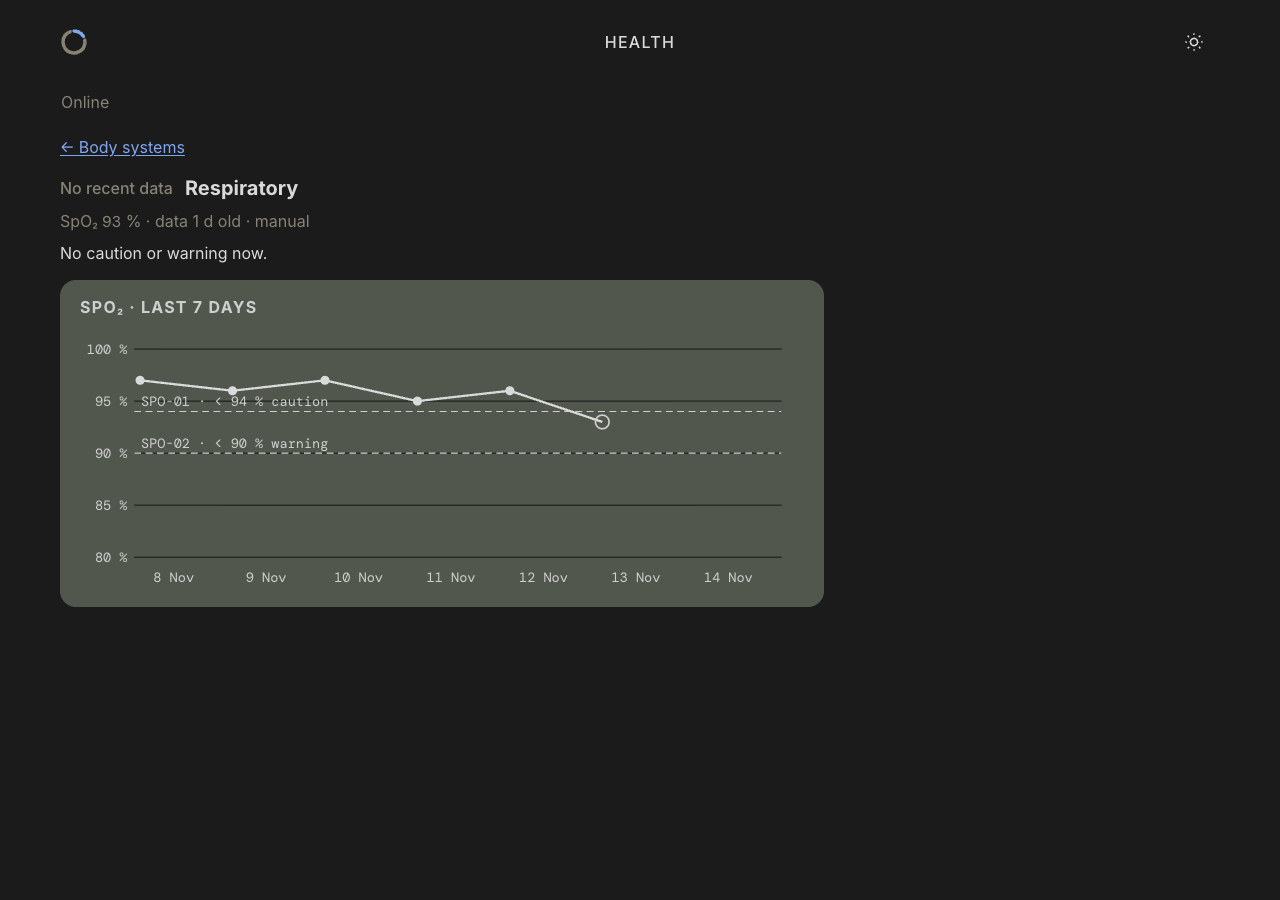
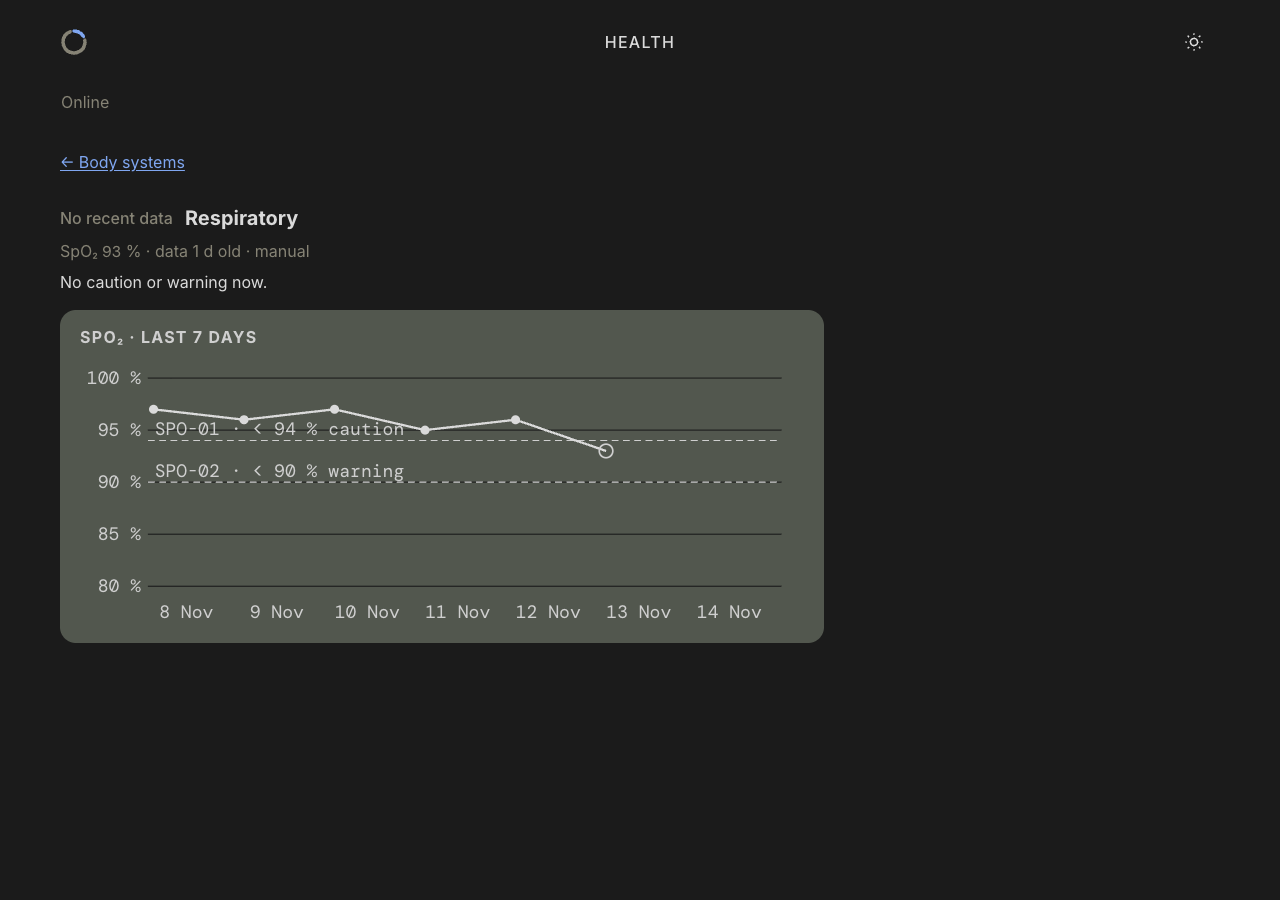
fix(detail): 16 px chart labels, chart scrolls on phones opening on the newest readings, 52 px back link (#9)

Changed region(s): [[0.0312, 0.1556, 0.6562, 0.5289], [0.0312, 0.5911, 0.6562, 0.7156], [0.0625, 0.5289, 0.0938, 0.56]]

diff --git a/src/main/frontend/src/ui/TrendChart.tsx b/src/main/frontend/src/ui/TrendChart.tsx
@@ -1,7 +1,7 @@
 import { CHART_WINDOW_MS, type ChartPoint, type Indicator, type Rule } from '../domain/rules'
 
 // Plot area in viewBox units.
-const LEFT = 48
+const LEFT = 60
 const RIGHT = 620
 const TOP = 16
 const BOTTOM = 200
@@ -40,18 +40,18 @@ export function TrendChart({ rules, points, now, source }: { rules: Rule[]; poin
   return (
     <svg
       className="trend-chart"
-      viewBox="0 0 640 230"
+      viewBox="0 0 640 236"
       role="img"
       aria-label={`${label}, last 7 days, ${points.length} ${points.length === 1 ? 'reading' : 'readings'}`}
     >
       {grid.map((v) => (
         <g key={v}>
           <line className="chart-grid" data-value={v} x1={LEFT} x2={RIGHT} y1={y(v)} y2={y(v)} />
-          <text className="chart-label" x={LEFT - 6} y={y(v) + 4} textAnchor="end">{`${v} ${unit}`}</text>
+          <text className="chart-label" x={LEFT - 6} y={y(v) + 5} textAnchor="end">{`${v} ${unit}`}</text>
         </g>
       ))}
       {midnights.map((t) => (
-        <text key={t} className="chart-label" x={x(t)} y={222} textAnchor="middle">
+        <text key={t} className="chart-label" x={x(t)} y={228} textAnchor="middle">
           {dayLabel.format(t)}
         </text>
       ))}
@@ -77,7 +77,7 @@ export function TrendChart({ rules, points, now, source }: { rules: Rule[]; poin
             <title>{`${p.value} ${unit} · ${p.status} · ${timeLabel.format(Date.parse(p.recordedAt)).replace(',', '')} UTC · ${source}`}</title>
           </circle>
           {MARKER[p.status] && (
-            <text className="chart-marker" x={p.cx} y={p.cy - 11} textAnchor="middle">
+            <text className="chart-marker" x={p.cx} y={p.cy - 12} textAnchor="middle">
               {MARKER[p.status]}
             </text>
           )}

diff --git a/src/main/frontend/src/ui/SystemDetail.tsx b/src/main/frontend/src/ui/SystemDetail.tsx
@@ -21,6 +21,19 @@ function Card({ title, children }: { title: string; children: ReactNode }) {
   )
 }
 
+// On phones the chart scrolls sideways; it opens on the newest readings, once, so re-reads keep the user's position.
+function ChartScroll({ children }: { children: ReactNode }) {
+  const box = useRef<HTMLDivElement>(null)
+  useEffect(() => {
+    if (box.current) box.current.scrollLeft = box.current.scrollWidth
+  }, [])
+  return (
+    <div ref={box} className="chart-scroll">
+      {children}
+    </div>
+  )
+}
+
 function DetailBody({ detail, now, headingRef }: { detail: Detail; now: Date; headingRef: React.Ref<HTMLHeadingElement> }) {
   const { status, rules, points } = detail
   const { rule, recordedAt } = status
@@ -29,7 +42,9 @@ function DetailBody({ detail, now, headingRef }: { detail: Detail; now: Date; he
   const chart = (
     <Card title={`${rules[0].label} · last 7 days`}>
       {points.length > 0 ? (
-        <TrendChart rules={rules} points={points} now={now} source={status.source} />
+        <ChartScroll>
+          <TrendChart rules={rules} points={points} now={now} source={status.source} />
+        </ChartScroll>
       ) : (
         <p className="muted">No readings in the last 7 days</p>
       )}

diff --git a/src/main/frontend/src/ui/detail.css b/src/main/frontend/src/ui/detail.css
@@ -1,6 +1,9 @@
 /* Detail screen (mockup 02, issue #9). Colours and sizes: ideas/ui-guidelines.md. */
 .detail-back {
   align-self: flex-start;
+  display: inline-flex;
+  align-items: center;
+  min-height: var(--target-min);
 }
 
 .detail-head {
@@ -94,9 +97,15 @@
 }
 
 /* Trend chart (ui-guidelines §5 "Charts") */
+/* Labels are 16 viewBox units; below 600 px wide they would shrink under 16 px, so phones scroll the chart instead */
+.chart-scroll {
+  overflow-x: auto;
+}
+
 .trend-chart {
   display: block;
   width: 100%;
+  min-width: 600px;
   height: auto;
 }
 
@@ -112,7 +121,7 @@
 .chart-label {
   fill: var(--color-text-muted);
   font-family: var(--font-data);
-  font-size: 12px;
+  font-size: 16px;
 }
 
 .chart-line {
@@ -143,6 +152,6 @@
 
 .chart-marker {
   fill: var(--color-text);
-  font-size: 12px;
+  font-size: 16px;
   font-weight: 700;
 }

diff --git a/docs/features/9-detail-screen.md b/docs/features/9-detail-screen.md
@@ -28,6 +28,13 @@ The newest point is hollow with no marker. Old data shows its age, never an alar
 ### No data
 ![No data](img/9-no-data.png)
 
+### Light theme (caution)
+![Caution, light](img/9-caution-light.png)
+
+### Phone, 390 px (caution)
+The columns stack. The chart keeps 16 px labels by scrolling sideways, and it opens on the newest readings, so the Y-axis labels are scrolled out of view at first.
+![Caution, phone](img/9-caution-phone.png)
+
 "Detail unavailable" (rules or storage fail to load) can't be triggered from the running app; it's covered by `SystemDetail.test.tsx` (AC35, AC36). Unknown routes (`#/systems/Cognition`, `#/foo`) go back to Home (AC8).
 
 ## Mockup and deviations
@@ -41,4 +48,5 @@ Layout follows [02-detail.png](../../ideas/mockups/02-detail.png) and the issue 
 | Who to involve is a 2 × 2 grid, not four in a row | At the app's body text size "Medical conference" doesn't fit in a quarter of the 380 px column. |
 | One "What next" step, not a numbered list | Each rule row has a single `next` text. |
 | No latest-value label on the chart | The header already shows the latest value with its age and source. |
+| On phones the chart scrolls sideways instead of shrinking | Its labels stay at 16 px (ui-guidelines §8). |
 | Chart markers show icon + colour without the word | The word is in each point's title and the header badge; recorded as an exception in ui-guidelines §2.3. |
